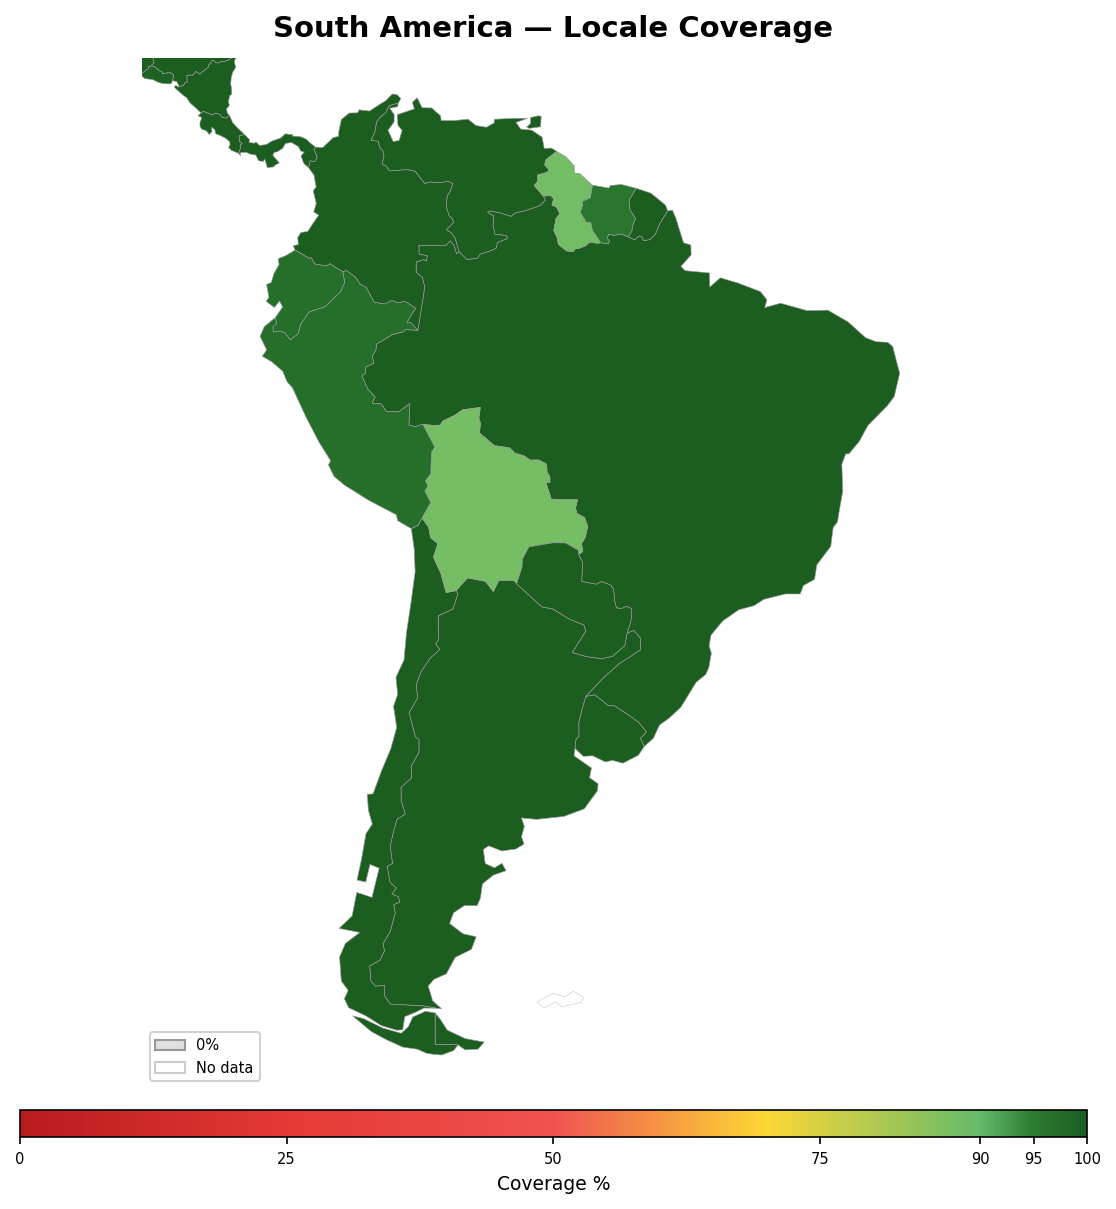
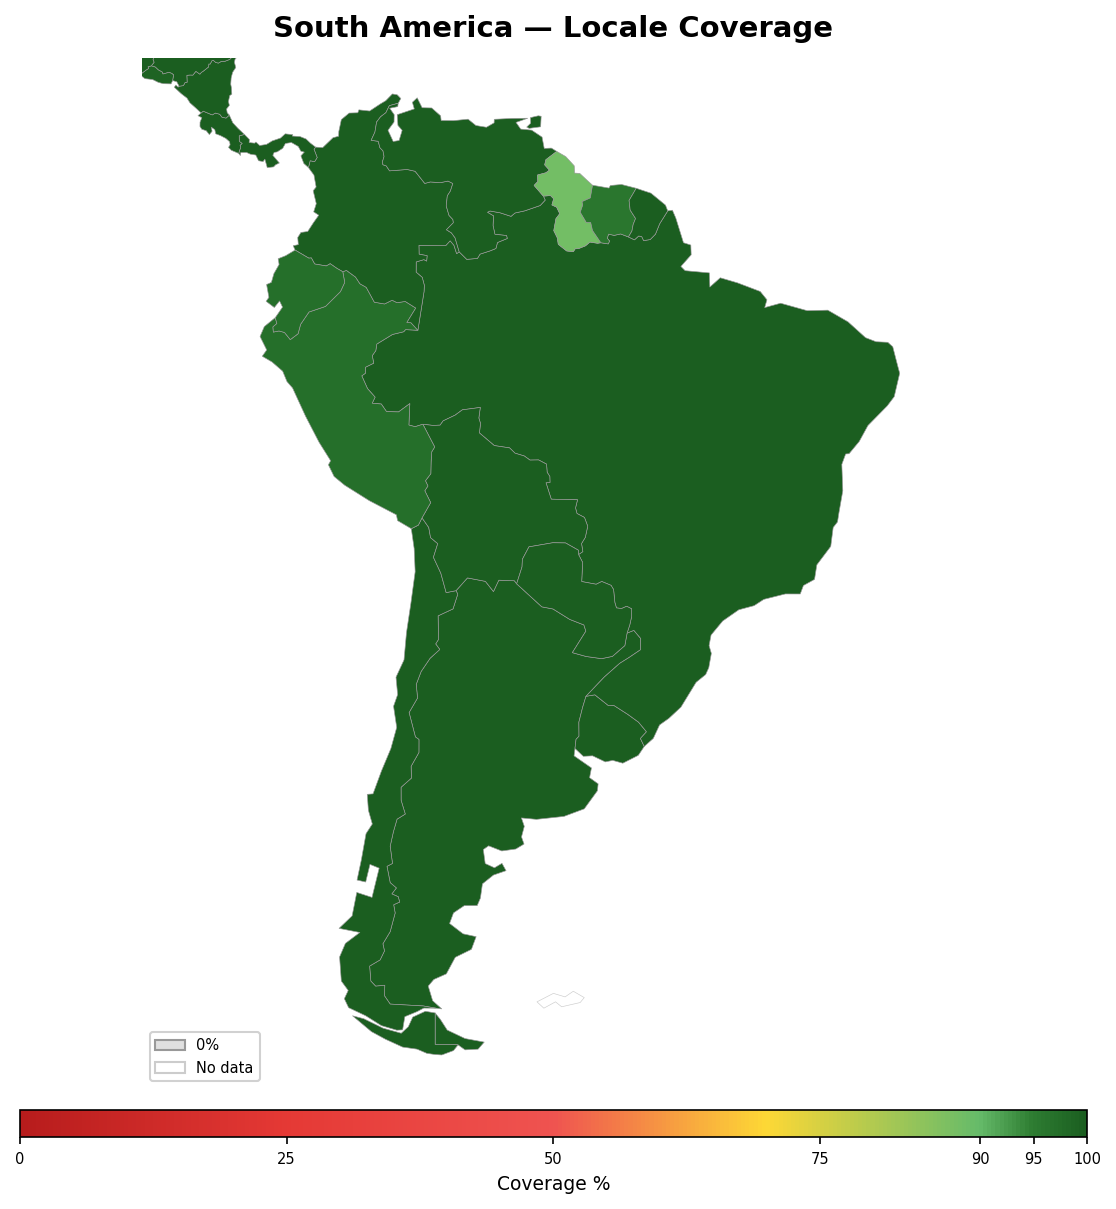
Update geography docs and add coverage gap notes for all continents
Add explanatory notes for remaining coverage gaps in Africa, Europe,
and South America. Regenerate all geography docs and maps reflecting
168 locales and 95% global average coverage.

Changed region(s): [[0.3656, 0.3366, 0.5484, 0.4897]]

diff --git a/docs/geography/africa.md b/docs/geography/africa.md
@@ -9,7 +9,7 @@
 ## Summary
 
 - **Countries**: 52
-- **Average coverage**: 89%
+- **Average coverage**: 90%
 
 ## Countries
 
@@ -39,12 +39,12 @@
 | Ghana | 91% | English (58%), Akan (44%), Hausa (5%), Igbo (1%), Yoruba (1%), Ewe (13%) | Ga-Dangme (7%), Dagbani (5%) |
 | Guinea | 100% | French (25%), Fulfulde (33%), Susu (21%), Maninka (23%) | — |
 | Guinea-Bissau | 80% | Portuguese (14%), Fulfulde (16%), Guinea-Bissau Creole (50%), Mandinka (7%) | Balanta (22%) |
-| Kenya | 61% | Swahili (67%), English (31%), Ganda (1%), Somali (1%) | Kikuyu (17%), Luhya (14%), Kalenjin (13%), Dholuo (Luo) (11%), Kamba (10%) |
+| Kenya | 78% | Swahili (67%), English (31%), Ganda (1%), Somali (1%), Kikuyu (17%), Dholuo (Luo) (11%) | Luhya (14%), Kalenjin (13%), Kamba (10%) |
 | Lesotho | 100% | English (30%), Zulu (2%), Sesotho (Southern Sotho) (90%) | — |
 | Liberia | 40% | English (20%), Kpelle (20%) | Bassa (13%), Grebo (10%), Dan (Gio) (8%), Mano (8%) |
 | Libya | 95% | Arabic (95%) | — |
 | Madagascar | 100% | Malagasy (95%), French (20%), English (5%) | — |
-| Malawi | 65% | Chewa (57%), English (15%) | Lomwe (15%), Yao (14%), Tumbuka (9%) |
+| Malawi | 86% | Chewa (57%), English (15%), Yao (14%), Tumbuka (9%) | Lomwe (15%) |
 | Mali | 93% | French (20%), Fulfulde (14%), Bambara (50%), Soninke (9%) | — |
 | Mauritania | 100% | Arabic (80%), French (15%), Fulfulde (8%) | — |
 | Mauritius | 100% | English (50%), French (73%), Hindi (3%), Mauritian Creole (87%) | — |
@@ -55,9 +55,9 @@
 | Nigeria | 82% | English (53%), Hausa (27%), Yoruba (15%), Igbo (12%), Fulfulde (5%) | Ijaw languages (10%), Kanuri (5%), Tiv (5%), Ibibio (5%) |
 | Rwanda | 100% | Kinyarwanda (93%), French (8%), English (15%), Swahili (2%) | — |
 | Senegal | 90% | French (26%), Fulfulde (23%), Wolof (50%), Soninke (5%) | Serer (11%) |
-| Sierra Leone | 83% | English (20%), Mende (31%), Temne (32%) | Krio (10%) |
+| Sierra Leone | 93% | English (20%), Mende (31%), Temne (32%), Krio (10%) | — |
 | Somalia | 100% | Somali (95%), Arabic (20%), English (5%) | — |
-| South Africa | 96% | Zulu (23%), Xhosa (16%), Afrikaans (13%), English (10%), Shona (1%), Northern Sotho (Sepedi) (10%), Tswana (8%), Southern Sotho (8%), Tsonga (5%), Swazi (siSwati) (3%) | Venda (2%), Southern Ndebele (2%) |
+| South Africa | 100% | Zulu (23%), Xhosa (16%), Afrikaans (13%), English (10%), Shona (1%), Northern Sotho (Sepedi) (10%), Tswana (8%), Southern Sotho (8%), Tsonga (5%), Swazi (siSwati) (3%), Venda (2%), Southern Ndebele (2%) | — |
 | South Sudan | 79% | English (10%), Arabic (15%), Swahili (2%), Dinka (36%), Nuer (16%) | Bari (7%), Zande (6%), Shilluk (5%) |
 | Sudan | 74% | Arabic (70%), English (5%) | Beja (12%), Nubian languages (8%), Fur (6%) |
 | Tanzania | 100% | Swahili (90%), English (15%), Sukuma (16%) | — |
@@ -67,6 +67,26 @@
 | Western Sahara | 90% | Arabic (90%) | — |
 | Zambia | 70% | English (20%), Chewa (15%), Bemba (35%) | Tonga (12%), Lozi (6%) |
 | Zimbabwe | 100% | English (30%), Shona (70%), Northern Ndebele (16%) | — |
+
+## Notes
+
+Liberia's remaining gaps are Bassa (13%), Grebo (10%), Dan/Gio (8%), and Mano (8%). All four are Niger-Congo languages with limited written standardization and very little digital tooling. Bassa has its own unique script (Vah) alongside a Latin orthography, but neither has established calendar/temporal vocabulary in written form.
+
+Uganda's gaps are Nyankore/Runyankole (10%), Soga/Lusoga (10%), Teso (10%), Lango (6%), and Acholi (5%). While several are Bantu languages with some written tradition, none has CLDR data or standardized temporal vocabulary for digital use. Acholi and Lango are Western Nilotic languages closely related to Dholuo but with less documentation.
+
+Namibia's remaining gaps are Khoekhoegowab/Nama-Damara (11%), RuKwangali (9%), and Otjiherero (9%). Khoekhoegowab uses click consonants and has limited digital standardization. RuKwangali and Otjiherero are Bantu languages with some written tradition but no established temporal vocabulary in standardized written form.
+
+Sudan's gaps are Beja (12%), Nubian languages (8%), and Fur (6%). Beja is an Afroasiatic language with a primarily oral tradition. 'Nubian languages' is a family of multiple distinct languages, not a single locale. Fur has limited written standardization.
+
+Kenya's remaining gaps after Kikuyu (ki) and Dholuo (luo) are Luhya (14%), Kalenjin (13%), and Kamba (10%). Luhya is actually a macro-language comprising 18+ distinct dialects (Bukusu, Maragoli, Luyia, etc.) — no single locale would cover the group. Kalenjin is similarly a cluster of related but distinct languages (Nandi, Kipsigis, Pokot, etc.). Kamba has some written tradition but no CLDR data.
+
+Cameroon's gaps are Bamileke languages (15%) and Ewondo (8%). 'Bamileke languages' is a group of 11+ languages in the Grassfields Bantu family — not a single locale. Ewondo has CLDR data but limited temporal vocabulary documentation.
+
+Nigeria's gaps are Ijaw languages (10%), Kanuri (5%), Tiv (5%), and Ibibio (5%). 'Ijaw languages' is a family of 9+ languages. Kanuri has limited digital standardization. Tiv and Ibibio have some written tradition but no established temporal vocabulary for digital use.
+
+Senegal's remaining gap is Serer (11%). Despite having an established Latin orthography and being spoken by over 1.8 million people, research found no documented month names, weekday names, or temporal vocabulary in available linguistic references — only greeting and number vocabulary. Adding a Serer locale requires native speaker collaboration.
+
+Several countries have small gaps (5-17%) in languages that are either: language families rather than single languages (Bamileke, Ijaw, Karen, Nubian), lack standardized written forms, or have no documented temporal vocabulary. These gaps are structural and cannot be addressed without native speaker partnerships.
 
 ---
 

diff --git a/docs/geography/README.md b/docs/geography/README.md
@@ -11,8 +11,8 @@ How well do Sayable's locales cover the world's languages?
 | Metric | Count |
 |--------|------:|
 | Countries tracked | 178 |
-| 100% coverage | 113 |
-| 76–100% (high) | 164 |
+| 100% coverage | 116 |
+| 76–100% (high) | 166 |
 | 51–75% (good) | 177 |
 | 1–50% (some) | 1 |
 | 0% (none) | 0 |
@@ -21,14 +21,14 @@ How well do Sayable's locales cover the world's languages?
 
 | Continent | Countries | Avg Coverage | Details |
 |-----------|----------:|-------------:|--------:|
-| Africa | 52 | 89% | [Africa](africa.md) |
+| Africa | 52 | 90% | [Africa](africa.md) |
 | Asia | 49 | 97% | [Asia](asia.md) |
 | Europe | 39 | 98% | [Europe](europe.md) |
 | North America | 19 | 99% | [North America](north-america.md) |
 | Oceania | 7 | 89% | [Oceania](oceania.md) |
-| South America | 12 | 97% | [South America](south-america.md) |
+| South America | 12 | 98% | [South America](south-america.md) |
 
-## Supported Locales (159)
+## Supported Locales (168)
 
 | Code | Name | Components |
 |------|------|------------|
@@ -36,6 +36,7 @@ How well do Sayable's locales cover the world's languages?
 | `ak` | Akan | age, date, duration, time |
 | `am` | Amharic | age, date, duration, time |
 | `ar` | Arabic | age, date, duration, time |
+| `ay` | Aymara | age, date, duration, time |
 | `az` | Azerbaijani | age, date, duration, time |
 | `bci` | Baoulé | age, date, duration, time |
 | `be` | Belarusian | age, date, duration, time |
@@ -95,20 +96,24 @@ How well do Sayable's locales cover the world's languages?
 | `ka` | Georgian | age, date, duration, time |
 | `kbp` | Kabiye | age, date, duration, time |
 | `kek` | Q'eqchi' | age, date, duration, time |
+| `ki` | Kikuyu | age, date, duration, time |
 | `kk` | Kazakh | age, date, duration, time |
 | `kl` | Kalaallisut | age, date, duration, time |
 | `km` | Khmer | age, date, duration, time |
 | `kn` | Kannada | age, date, duration, time |
 | `ko` | Korean | age, date, duration, time |
 | `kpe` | Kpelle | age, date, duration, time |
+| `kri` | Krio | age, date, duration, time |
 | `ktu` | Kituba | age, date, duration, time |
 | `ku` | Kurdish | age, date, duration, time |
 | `kw` | Cornish | age, date, duration, time |
 | `ky` | Kyrgyz | age, date, duration, time |
+| `lb` | Luxembourgish | age, date, duration, time |
 | `lg` | Luganda | age, date, duration, time |
 | `ln` | Lingala | age, date, duration, time |
 | `lo` | Lao | age, date, duration, time |
 | `lt` | Lithuanian | age, date, duration, time |
+| `luo` | Dholuo | age, date, duration, time |
 | `lv` | Latvian | age, date, duration, time |
 | `mam` | Mam | age, date, duration, time |
 | `men` | Mende | age, date, duration, time |
@@ -129,6 +134,7 @@ How well do Sayable's locales cover the world's languages?
 | `ne` | Nepali | age, date, duration, time |
 | `ng` | Oshiwambo | age, date, duration, time |
 | `nl` | Dutch | age, date, duration, time |
+| `nr` | Southern Ndebele | age, date, duration, time |
 | `nso` | Northern Sotho | age, date, duration, time |
 | `nus` | Nuer | age, date, duration, time |
 | `ny` | Chichewa | age, date, duration, time |
@@ -177,15 +183,18 @@ How well do Sayable's locales cover the world's languages?
 | `tpi` | Tok Pisin | age, date, duration, time |
 | `tr` | Turkish | age, date, duration, time |
 | `ts` | Tsonga | age, date, duration, time |
+| `tum` | Tumbuka | age, date, duration, time |
 | `tzm` | Central Atlas Tamazight | age, date, duration, time |
 | `uk` | Ukrainian | age, date, duration, time |
 | `umb` | Umbundu | age, date, duration, time |
 | `ur` | Urdu | age, date, duration, time |
 | `uz` | Uzbek | age, date, duration, time |
+| `ve` | Venda | age, date, duration, time |
 | `vi` | Vietnamese | age, date, duration, time |
 | `vmw` | Makhuwa | age, date, duration, time |
 | `wo` | Wolof | age, date, duration, time |
 | `xh` | Xhosa | age, date, duration, time |
+| `yao` | Yao | age, date, duration, time |
 | `yo` | Yoruba | age, date, duration, time |
 | `yue` | Cantonese | age, date, duration, time |
 | `zdj` | Comorian | age, date, duration, time |

diff --git a/docs/geography/europe.md b/docs/geography/europe.md
@@ -36,7 +36,7 @@
 | Kosovo | 98% | Albanian (92%), Serbian (5%), Turkish (1%) | — |
 | Latvia | 100% | Latvian (62%), Russian (34%), English (46%) | — |
 | Lithuania | 100% | Lithuanian (85%), Russian (19%), Polish (6%), English (38%) | — |
-| Luxembourg | 83% | French (96%), German (71%), English (56%), Portuguese (13%) | Luxembourgish (49%) |
+| Luxembourg | 100% | French (96%), German (71%), English (56%), Portuguese (13%), Luxembourgish (49%) | — |
 | Malta | 100% | Maltese (90%), English (89%), Italian (66%) | — |
 | Moldova | 100% | Romanian (76%), Russian (27%), Ukrainian (6%) | — |
 | Montenegro | 65% | Serbian (43%), Bosnian (15%), Albanian (5%), Croatian (2%) | Montenegrin (35%) |
@@ -54,6 +54,10 @@
 | Switzerland | 100% | German (63%), French (23%), Italian (8%), English (45%) | — |
 | Ukraine | 100% | Ukrainian (68%), Russian (30%), English (18%) | — |
 | United Kingdom | 100% | English (92%), Welsh (1%), Scottish Gaelic (0%), Polish (2%), Urdu (1%), Punjabi (1%), Bengali (1%), Arabic (1%), French (15%) | — |
+
+## Notes
+
+Montenegro's remaining gap is Montenegrin (35%). Montenegrin is mutually intelligible with Serbian (sr), which is already supported. The two differ only in two additional letters (Ś/ś and Ź/ź) and minor lexical preferences — the temporal vocabulary (month names, weekday names, time expressions) is identical. Any Montenegrin speaker can use the Serbian locale without loss of comprehension. The distinction is political rather than linguistic.
 
 ---
 

diff --git a/docs/geography/south-america.md b/docs/geography/south-america.md
@@ -9,14 +9,14 @@
 ## Summary
 
 - **Countries**: 12
-- **Average coverage**: 97%
+- **Average coverage**: 98%
 
 ## Countries
 
 | Country | Coverage | Covered Languages | Uncovered Languages |
 |---------|:--------:|-------------------|---------------------|
 | Argentina | 100% | Spanish (97%), English (7%), Guarani (1%) | — |
-| Bolivia | 88% | Spanish (84%), Quechua (21%) | Aymara (15%) |
+| Bolivia | 100% | Spanish (84%), Quechua (21%), Aymara (15%) | — |
 | Brazil | 100% | Portuguese (98%), English (5%), Spanish (4%), German (1%), Italian (1%), Japanese (1%) | — |
 | Chile | 100% | Spanish (95%), English (10%) | — |
 | Colombia | 100% | Spanish (99%), English (4%) | — |
@@ -27,6 +27,10 @@
 | Suriname | 96% | Dutch (58%), English (20%), Hindi (10%), Javanese (8%) | — |
 | Uruguay | 100% | Spanish (95%), Portuguese (5%), English (10%) | — |
 | Venezuela | 100% | Spanish (97%), English (5%) | — |
+
+## Notes
+
+All remaining South American gaps are fully covered. Bolivia was the last gap at 88%, resolved by adding Aymara (ay). Every tracked South American country now has 100% locale coverage.
 
 ---
 
